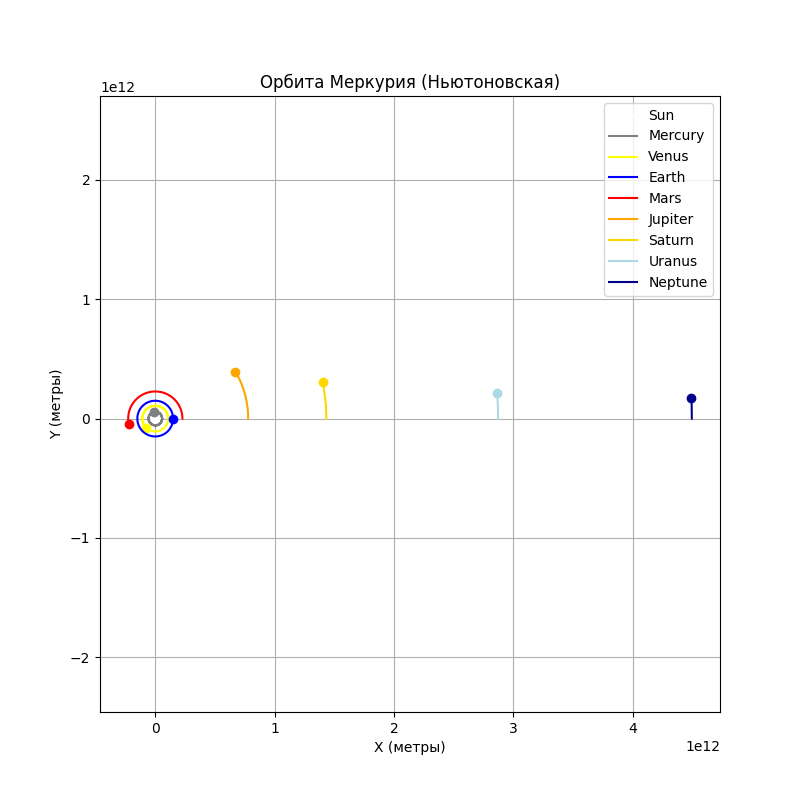
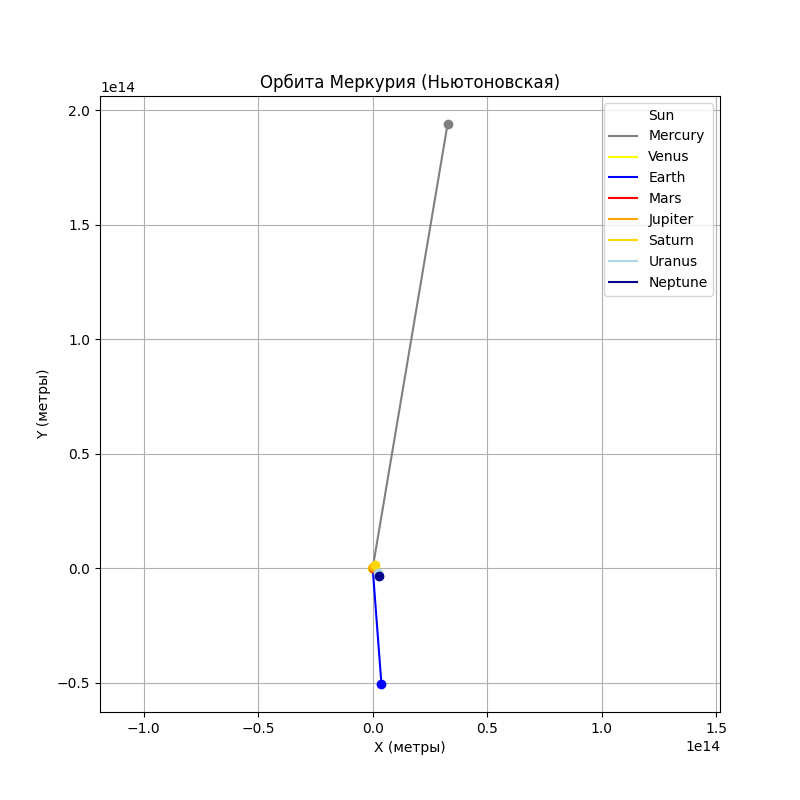
Planets go away

diff --git a/main.py b/main.py
@@ -4,12 +4,13 @@ import matplotlib.pyplot as plt
 
 from models import Planet, Forces
 from visualizer import animate_orbits
+from ephemeris import get_j2000_state
 
 G = 6.674e-11
 C = 299.8e6
 M_SUN = 1.989e30
 AU = 1.496e11
-DIM = np.array([0, 0])
+DIM = np.array([0, 0, 0])
 
 def mod(arr: npt.NDArray[np.float64]) -> np.float64:
   return np.float64(np.linalg.norm(arr))
@@ -65,85 +66,74 @@ def plot_static(planets: list[Planet]) -> None:
   plt.savefig('./assets/sim.png')
 
 def main() -> None:
-    # --- Инициализация данных планет ---
-    # Данные приближенные (средние), стартуем всех с оси X (Парад планет)
-    # Формат: "Name": (Mass [kg], Distance [m], Velocity [m/s], Color)
+  planets_names = ["Mercury", "Venus", "Earth", "Mars", "Jupiter", "Saturn", "Uranus", "Neptune"]
+  colors = ["gray", "yellow", "blue", "red", "orange", "gold", "lightblue", "darkblue"]
+  masses = [3.30e23, 4.87e24, 5.97e24, 6.42e23, 1.898e27, 5.68e26, 8.68e25, 1.02e26] # кг
+  
+  sun = Planet(M_SUN, np.array([0, 0, 0], dtype=np.float64), name="Sun", color="white")
+  all_planets = [sun]
+  
+  for name, color, mass in zip(planets_names, colors, masses):
+    # Получаем точные векторы на 2000 год
+    r_vec, v_vec = get_j2000_state(name)
     
-    planets_data = {
-        "Mercury": (3.30e23,  57.9e9,  47400, "gray"),
-        "Venus":   (4.87e24, 108.2e9,  35000, "yellow"),
-        "Earth":   (5.97e24, 149.6e9,  29800, "blue"),
-        "Mars":    (6.42e23, 227.9e9,  24100, "red"),
-        "Jupiter": (1.898e27, 778.6e9, 13100, "orange"),
-        "Saturn":  (5.68e26, 1433.5e9, 9700,  "gold"),
-        "Uranus":  (8.68e25, 2872.5e9, 6800,  "lightblue"),
-        "Neptune": (1.02e26, 4495.1e9, 5400,  "darkblue")
-    }
-
-    # Создаем Солнце
-    sun = Planet(M_SUN, np.array([0, 0], dtype=np.float64), name="Sun", color="white")
-    
-    all_planets = [sun]
-    
-    # Создаем планеты
-    for name, (mass, dist, vel, color) in planets_data.items():
-        p = Planet(
-            mass=mass,
-            r=np.array([dist, 0], dtype=np.float64),      # Позиция по X
-            u=np.array([0, vel], dtype=np.float64),       # Скорость по Y (перпендикулярно)
-            name=name,
-            color=color
-        )
-        all_planets.append(p)
-
-    # --- Настройка симуляции ---
-    forces = Forces(DIM)
-    forces.registrate(NewtonF)
-    forces.registrate(EinsteinF)
-
-    # dt = 1 час. Для Меркурия это ок, для Нептуна это очень детально.
-    dt = 3600 
-    t = 0
-    # Симулируем 1 Земной год (Меркурий успеет сделать ~4 оборота)
-    # Если поставить больше, расчет будет идти дольше
-    total_time = 1.0 * 365 * 24 * 3600 
-
-    print(f"Start simulation: {total_time/3600/24/365:.2f} Earth years...")
-
-    # Предварительный расчет сил
-    for planet in all_planets:
-        acc_calculate(planet, all_planets, forces)
-        
-    # Основной цикл
-    steps = int(total_time / dt)
-    check_interval = steps // 10 # Вывод прогресса 10 раз за симуляцию
-    
-    step_count = 0
-    while t < total_time:
-        move_calculate(dt, all_planets, forces)
-        t += dt
-        step_count += 1
-        if step_count % check_interval == 0:
-            print(f"Progress: {int(t/total_time*100)}%")
-    
-    print("Simulation finished.")
-    
-    # --- Визуализация ---
-    plot_static(all_planets)
-    
-    # ВАЖНО: Для анимации берем только внутренние планеты + Юпитер.
-    # Если рисовать Нептун, Меркурий станет невидимым из-за зума.
-    # Индексы: 0-Sun, 1-Mercury, 2-Venus, 3-Earth, 4-Mars, 5-Jupiter
-    inner_system = all_planets[:2] 
-    
-    print("Rendering animation for Inner Solar System + Jupiter...")
-    animate_orbits(
-        inner_system, 
-        filename="./assets/orbit.gif", 
-        fps=30, 
-        stride=24,   # Берем кадр раз в сутки (так как dt=1 час)
-        trace_length=-1
+    p = Planet(
+      mass=mass,
+      r=r_vec,
+      u=v_vec,
+      name=name,
+      color=color
     )
+    all_planets.append(p)
+
+  # --- Настройка симуляции ---
+  forces = Forces(DIM)
+  forces.registrate(NewtonF)
+  forces.registrate(EinsteinF)
+
+  # dt = 1 час. Для Меркурия это ок, для Нептуна это очень детально.
+  dt = 3600 
+  t = 0
+  # Симулируем 1 Земной год (Меркурий успеет сделать ~4 оборота)
+  # Если поставить больше, расчет будет идти дольше
+  total_time = 1.0 * 365 * 24 * 3600 
+
+  print(f"Start simulation: {total_time/3600/24/365:.2f} Earth years...")
+
+  # Предварительный расчет сил
+  for planet in all_planets:
+      acc_calculate(planet, all_planets, forces)
+      
+  # Основной цикл
+  steps = int(total_time / dt)
+  check_interval = steps // 10 # Вывод прогресса 10 раз за симуляцию
+  
+  step_count = 0
+  while t < total_time:
+      move_calculate(dt, all_planets, forces)
+      t += dt
+      step_count += 1
+      if step_count % check_interval == 0:
+          print(f"Progress: {int(t/total_time*100)}%")
+  
+  print("Simulation finished.")
+  
+  # --- Визуализация ---
+  plot_static(all_planets)
+  
+  # ВАЖНО: Для анимации берем только внутренние планеты + Юпитер.
+  # Если рисовать Нептун, Меркурий станет невидимым из-за зума.
+  # Индексы: 0-Sun, 1-Mercury, 2-Venus, 3-Earth, 4-Mars, 5-Jupiter
+  inner_system = all_planets[:4] 
+  
+  print(f"Rendering animation for Inner Solar System: {", ".join([pln.name for pln in inner_system])}")
+  animate_orbits(
+      inner_system, 
+      filename="./assets/orbit.gif", 
+      fps=30, 
+      stride=24,   # Берем кадр раз в сутки (так как dt=1 час)
+      trace_length=-1
+  )
 
 if __name__ == "__main__":
   main()

diff --git a/ephemeris.py b/ephemeris.py
@@ -1,0 +1,114 @@
+import numpy as np
+
+# Гравитационный параметр Солнца (m^3/s^2)
+GM = 1.32712440018e20 
+
+def get_state_from_kepler(a_au, e, i_deg, w_deg, Omega_deg, M_deg):
+    """
+    Преобразует Кеплеровы элементы в векторы положения и скорости (в СИ).
+    a_au: Большая полуось (в А.Е.)
+    e: Эксцентриситет
+    i_deg: Наклонение (градусы)
+    w_deg: Аргумент перицентра (градусы)
+    Omega_deg: Долгота восходящего узла (градусы)
+    M_deg: Средняя аномалия (градусы)
+    """
+    
+    # Константы
+    AU = 1.496e11
+    a = a_au * AU
+    
+    # Перевод градусов в радианы
+    i = np.radians(i_deg)
+    w = np.radians(w_deg)
+    O = np.radians(Omega_deg)
+    M = np.radians(M_deg)
+    
+    # 1. Решаем уравнение Кеплера для Эксцентрической аномалии (E)
+    # Метод Ньютона-Рафсона
+    E = M
+    for _ in range(10):
+        dE = (E - e * np.sin(E) - M) / (1 - e * np.cos(E))
+        E -= dE
+        if abs(dE) < 1e-9: break
+            
+    # 2. Координаты в орбитальной плоскости (P, Q)
+    # Истинная аномалия (nu) не нужна явно, считаем через E
+    # r_orb = a * (1 - e * cos(E))
+    
+    cosE = np.cos(E)
+    sinE = np.sin(E)
+    
+    # Положение в плоскости орбиты
+    x_orb = a * (cosE - e)
+    y_orb = a * np.sqrt(1 - e**2) * sinE
+    
+    # Скорость в плоскости орбиты
+    # n = mean motion (rad/s)
+    n = np.sqrt(GM / a**3)
+    r_mag = a * (1 - e * cosE)
+    
+    vx_orb = - (n * a**2 / r_mag) * sinE
+    vy_orb =   (n * a * np.sqrt(1 - e**2) / r_mag) * cosE
+    
+    # 3. Поворот в эклиптическую систему координат (3D поворот)
+    # Матрица поворота R = Rz(-O) * Rx(-i) * Rz(-w)
+    
+    def rotate(x, y, vx, vy):
+        # Вектора в орбитальной плоскости (z=0)
+        pos = np.array([x, y, 0.0])
+        vel = np.array([vx, vy, 0.0])
+        
+        # Поворот на аргумент перицентра (w) вокруг Z
+        R_w = np.array([
+            [np.cos(w), -np.sin(w), 0],
+            [np.sin(w),  np.cos(w), 0],
+            [0,          0,         1]
+        ])
+        
+        # Поворот на инклинуцию (i) вокруг X
+        R_i = np.array([
+            [1, 0,          0],
+            [0, np.cos(i), -np.sin(i)],
+            [0, np.sin(i),  np.cos(i)]
+        ])
+        
+        # Поворот на долготу узла (Omega) вокруг Z
+        R_O = np.array([
+            [np.cos(O), -np.sin(O), 0],
+            [np.sin(O),  np.cos(O), 0],
+            [0,          0,         1]
+        ])
+        
+        # Полная матрица поворота (обратный порядок умножения для векторов-столбцов, но здесь мы умножаем вектора)
+        # Правильная формула для вектора r_vec = R_O @ R_i @ R_w @ r_orb
+        R = R_O @ R_i @ R_w
+        
+        return R @ pos, R @ vel
+
+    r_vec, v_vec = rotate(x_orb, y_orb, vx_orb, vy_orb)
+    
+    return r_vec, v_vec
+
+def get_j2000_state(name):
+    """
+    Возвращает r, v для эпохи J2000 (1 Jan 2000).
+    Данные: NASA JPL Solar System Dynamics.
+    Элементы: a (AU), e, i (deg), w (deg), Omega (deg), M (deg)
+    """
+    data = {
+        "Mercury": (0.387098, 0.205630, 7.005,  29.124, 48.331, 174.796),
+        "Venus":   (0.723332, 0.006772, 3.394,  54.884, 76.680, 50.115),
+        "Earth":   (1.000000, 0.016708, 0.000,  102.937, 0.0,    357.517), # Для Земли Omega не определена, берем 0
+        "Mars":    (1.523679, 0.093400, 1.850,  286.502, 49.558, 19.412),
+        "Jupiter": (5.204267, 0.048498, 1.303,  273.867, 100.464, 20.020),
+        "Saturn":  (9.582017, 0.055546, 2.485,  339.392, 113.665, 317.020),
+        "Uranus":  (19.229411, 0.046381, 0.773, 96.9988, 74.006, 142.2386),
+        "Neptune": (30.103661, 0.009456, 1.770, 276.336, 131.784, 256.228)
+    }
+    
+    if name not in data:
+        raise ValueError(f"No data for {name}")
+        
+    params = data[name]
+    return get_state_from_kepler(*params)
